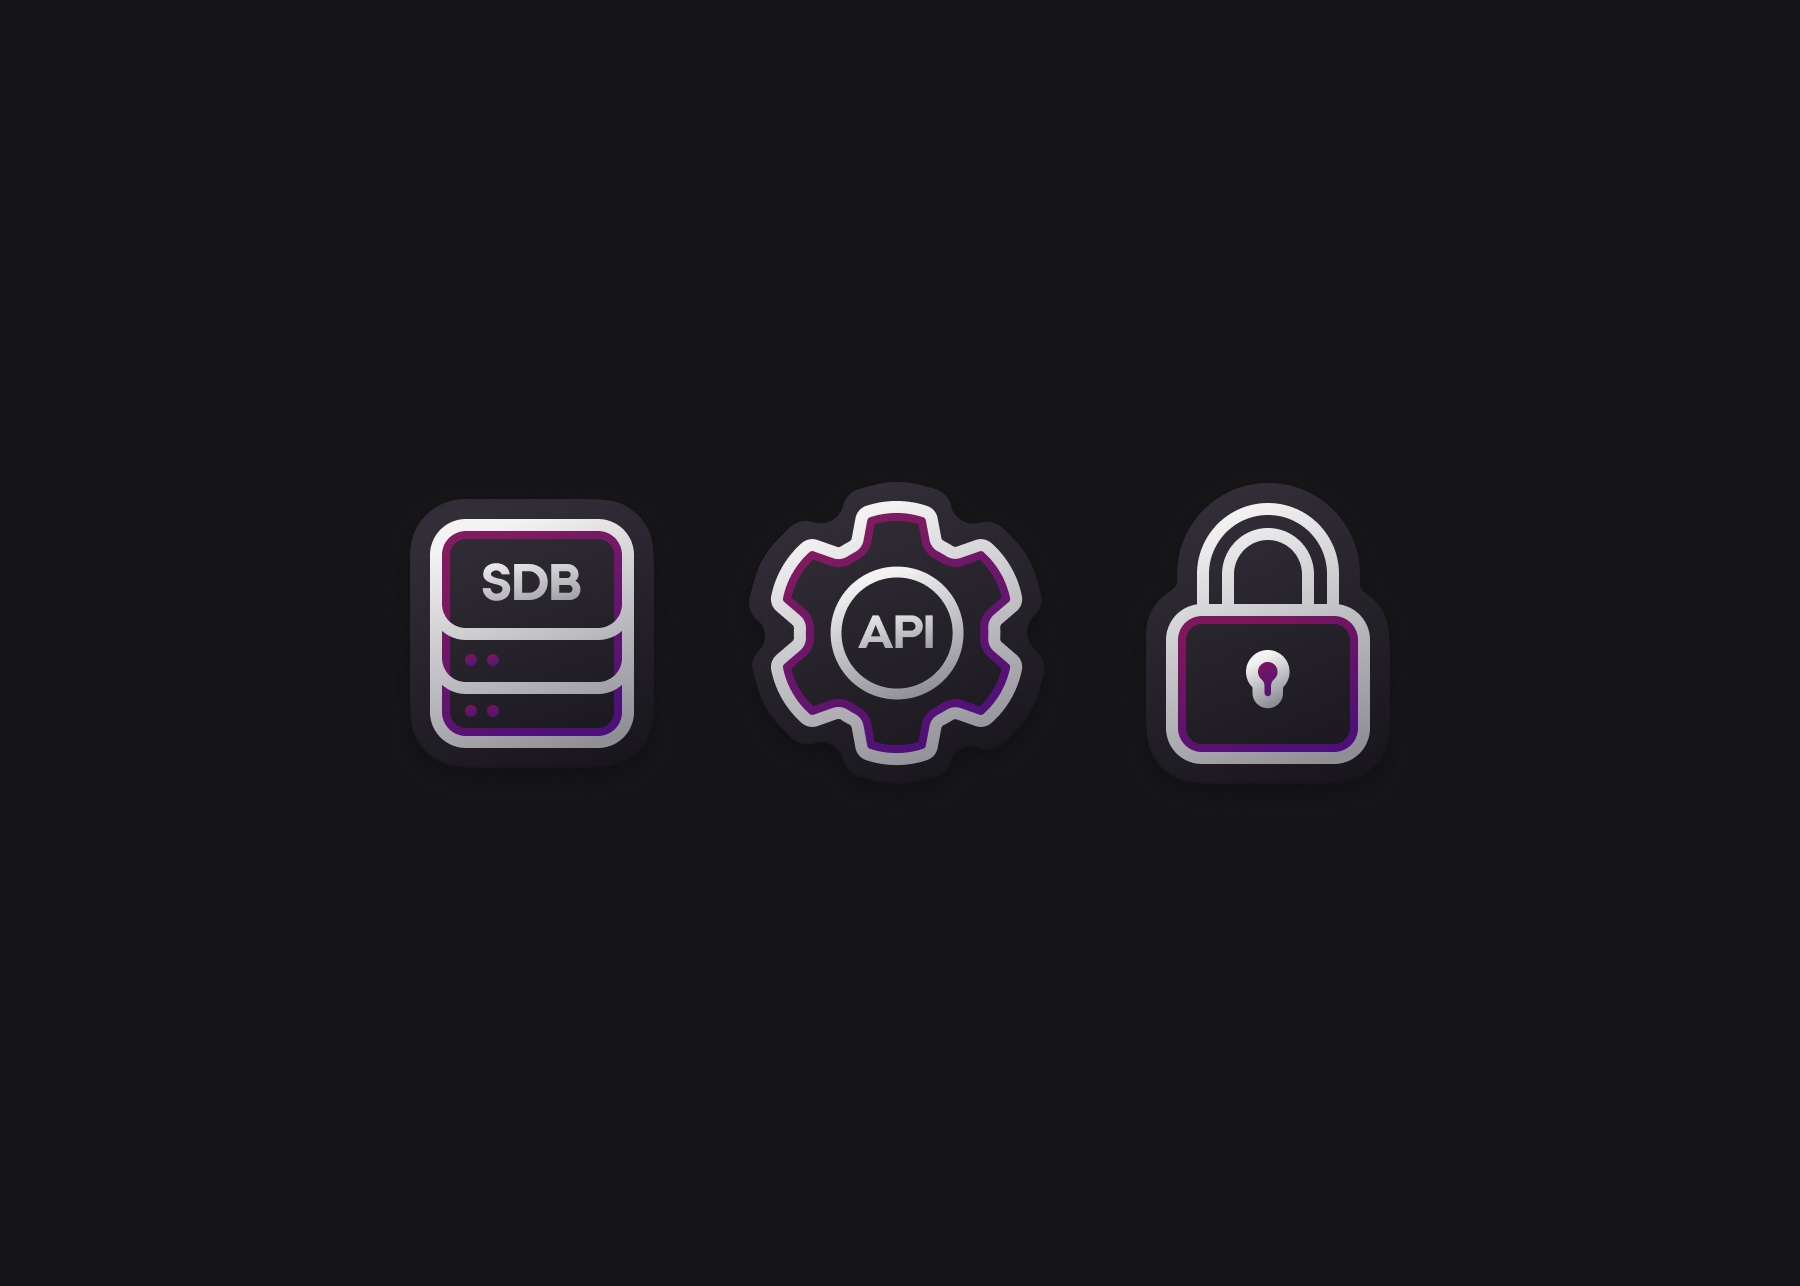
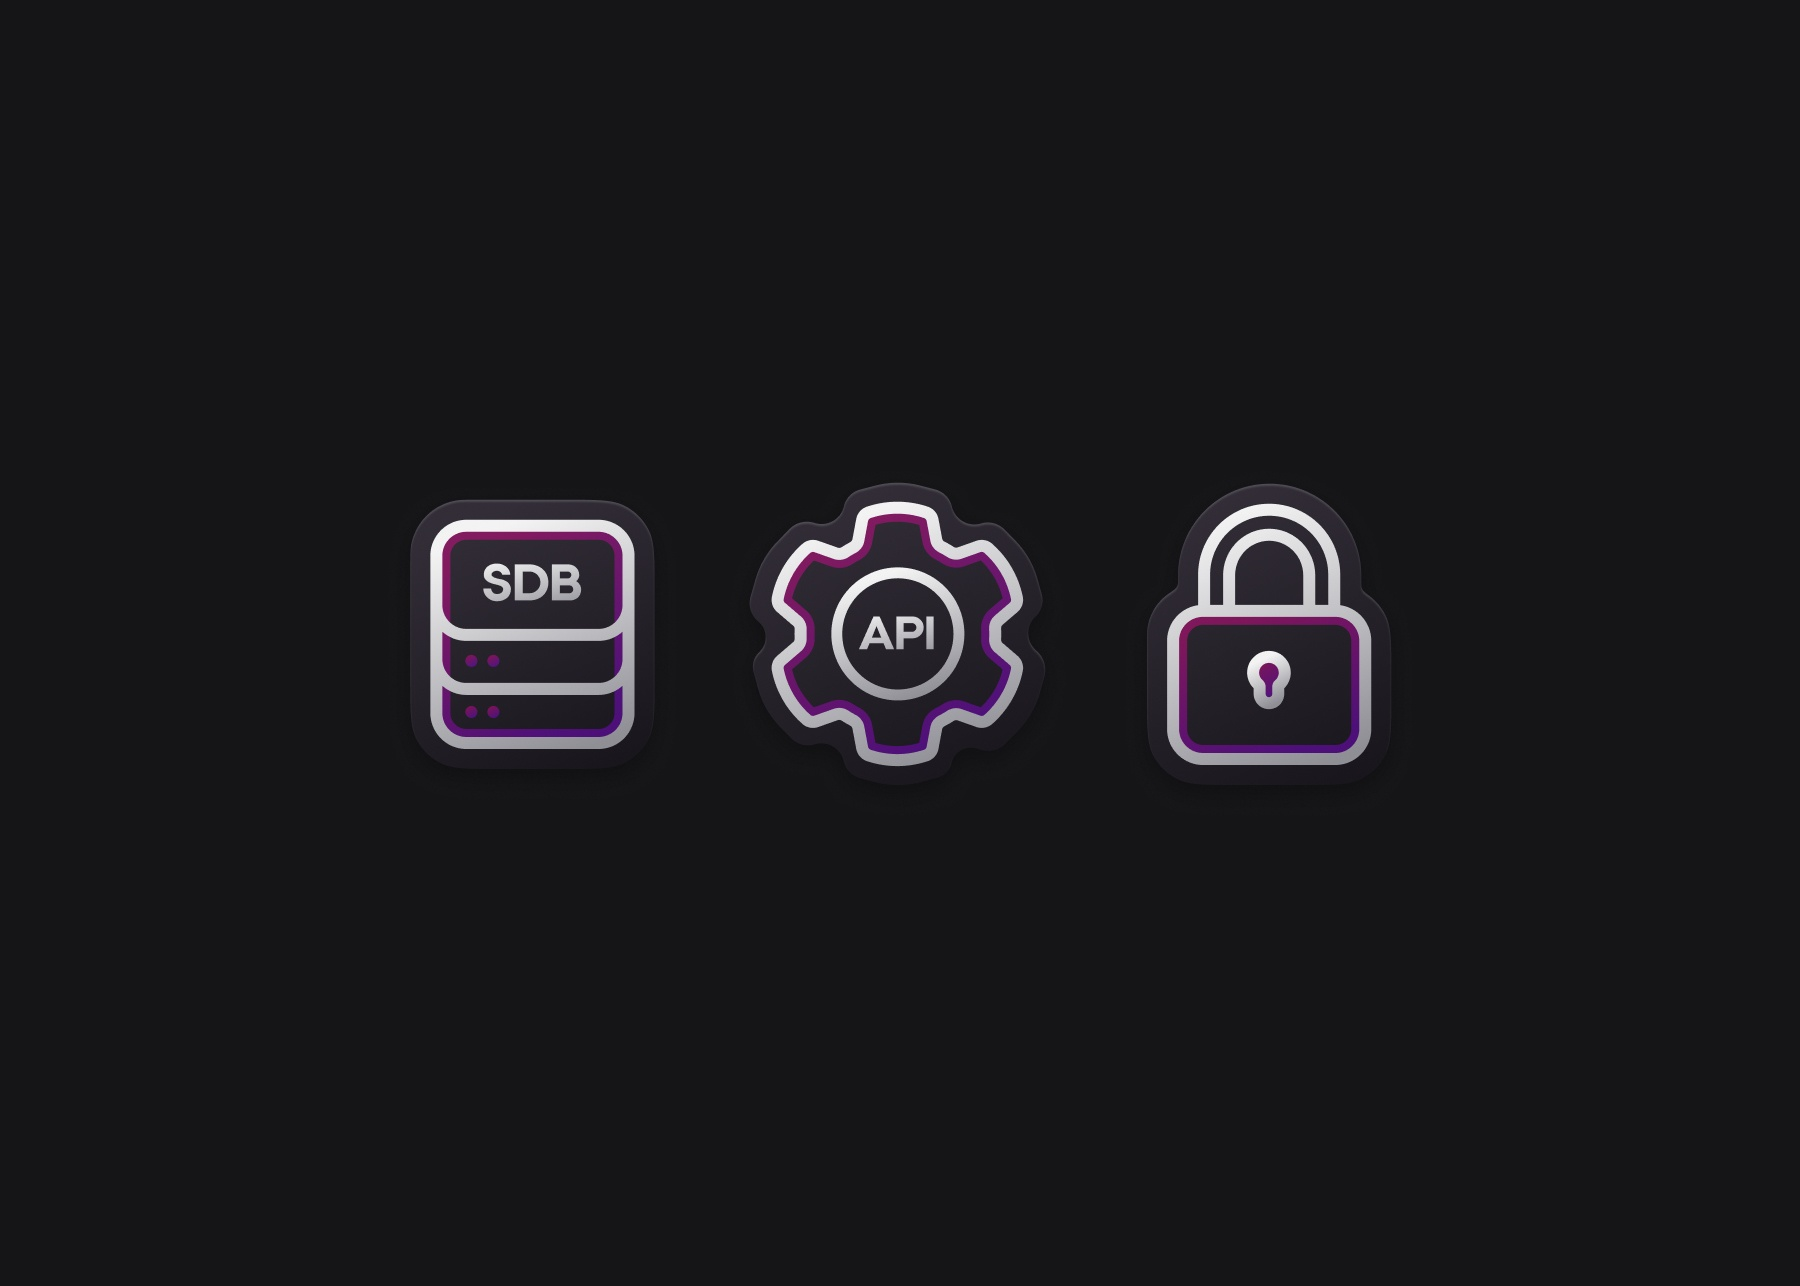
Update images on homepage

diff --git a/app/styles/components/layout/hero.scss b/app/styles/components/layout/hero.scss
@@ -170,7 +170,7 @@ layout-hero {
 	&[gettingstarted] {
 		height:auto;
 		padding:250px 80px 250px 80px;
-		background-image:url("/static/img/illustrations/gettingstarted.jpg");
+		background-image:url("/static/img/illustrations/gettingstarted.png");
 
 		@include media(max-width-960) {
 			padding:250px 40px 250px 40px;
